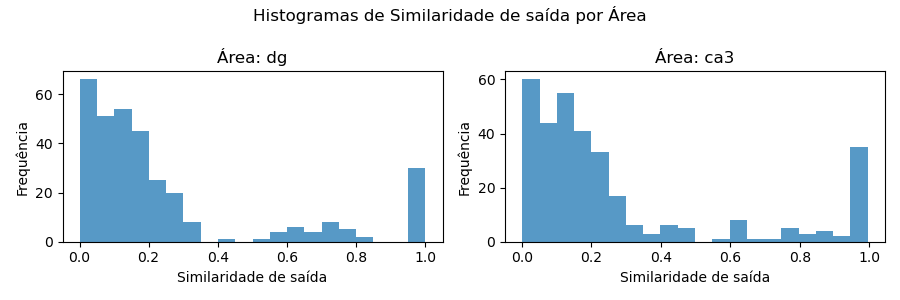
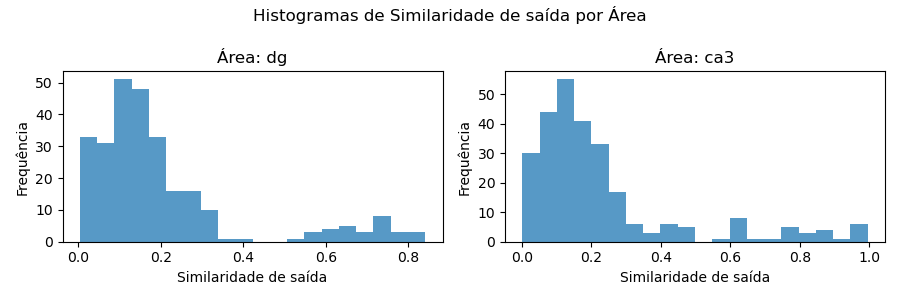
new hists

diff --git a/scripts/06_hist.py b/scripts/06_hist.py
@@ -28,14 +28,32 @@ def plot_histogram(group_col, df):
   fig.suptitle(f'Histogramas de {labels["out_sim"]} por {labels[group_col]}')
   fig.tight_layout()
 
-  plt.show()
-  # plt.savefig(f'figures/hist_{group_col}.png')
-  # plt.close(fig)
+  # plt.show()
+  plt.savefig(f'figures/hist_{group_col}.png')
+  plt.close(fig)
+
+
+def plot_out_sim(df):
+  fig, axes = plt.subplots(1, 1, figsize=(3*MAX_COLS, 6))
+
+  data = df['out_sim']
+  sns.histplot(data, bins=20, kde=False, ax=axes, edgecolor=None)
+
+  axes.set_title(f'Histograma para {labels["out_sim"]} (independente de categorias)')
+  axes.set_xlabel(labels['out_sim'])
+  axes.set_ylabel('Frequência')
+
+  fig.tight_layout()
+
+  # plt.show()
+  plt.savefig(f'figures/hist_out_sim.png')
+  plt.close(fig)
 
 
 if __name__ == '__main__':
   df = load_data()
 
+  plot_out_sim(df)
   plot_histogram('in_sim', df)
   plot_histogram('model', df)
   plot_histogram('area', df)

diff --git a/scripts/09_normal_test.py b/scripts/09_normal_test.py
@@ -1,12 +1,17 @@
 from load_data import load_data
+from labels import labels
+import pandas as pd
+import seaborn as sns
+import matplotlib.pyplot as plt
 import scipy.stats as stats
+import numpy as np
 
 # pd.set_option('display.max_rows', None, 'display.max_columns', None)
 
 
 def test_shapiro(data):
   stat, p = stats.shapiro(data)
-  return p
+  return p>0.05
 
 
 def test_kstest(data):
@@ -16,7 +21,9 @@ def test_kstest(data):
 
 if __name__ == '__main__':
   df = load_data()
+  # normality_results = df.groupby(['model', 'area', 'in_sim'])['out_sim'].apply(test_normality)
   normality_results = df.groupby(['model', 'area', 'in_sim'])['out_sim'].apply(test_shapiro)
   print("Teste de Normalidade (Shapiro-Wilk):")
   print(normality_results)
   # print(kstest_results)
+  print(f'Total normais: {normality_results.sum()}')
